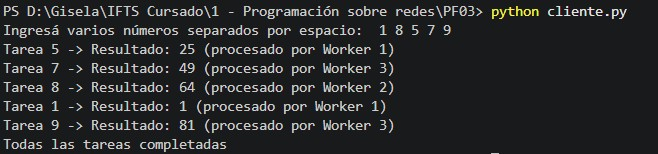
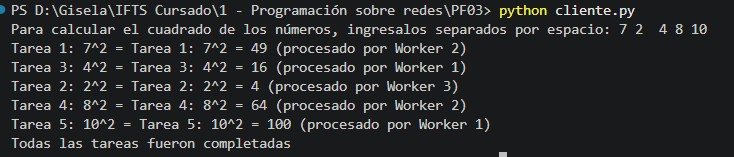
Mejora la salida: numera las tareas, muestra la operación (N^2 = resultado) y cierre prolijo del cliente con Ctrl+C

diff --git a/servidor.py b/servidor.py
@@ -12,20 +12,22 @@ cola = queue.Queue()
 # --- Worker: saca tareas de la cola y las procesa ---
 def worker(nombre):
     while True:
-        conexion, direccion, tarea = cola.get()
-        print(f"[{nombre}] procesando tarea: {tarea}")
-        time.sleep(2)                                  
+        conexion, direccion, tarea = cola.get()                          
 
         try:
-            numero = int(tarea)
-            resultado = numero * numero                
-            respuesta = f"Resultado: {resultado} (procesado por {nombre})"
+            num_tarea, valor = tarea.split(":")        # separa "1:5" en num_tarea="1", valor="5"
+            numero = int(valor)
+            print(f"[{nombre}] procesando Tarea {num_tarea}: {numero}^2")
+            time.sleep(2)                              # simula trabajo pesado
+            resultado = numero * numero
+            respuesta = f"Tarea {num_tarea}: {numero}^2 = {resultado} (procesado por {nombre})"
+            print(f"[{nombre}] terminó Tarea {num_tarea}: {numero}^2 = {resultado}")
         except ValueError:
             respuesta = "Error: enviá un número válido"
+            print(f"[{nombre}] tarea inválida: {tarea}")
 
         conexion.send(respuesta.encode())              
         conexion.close()                               
-        print(f"[{nombre}] terminó tarea: {tarea}")
         cola.task_done()
 
 
@@ -52,7 +54,7 @@ def main():
 
                 tarea = conexion.recv(1024).decode()
                 cola.put((conexion, direccion, tarea))
-                print(f"[Servidor] tarea de {direccion[1]} encolada: {tarea}")
+                print(f"[Servidor] {tarea} encolada")
         except KeyboardInterrupt:
             print("Servidor detenido.")
 

diff --git a/cliente.py b/cliente.py
@@ -4,25 +4,28 @@ import threading
 HOST = "localhost"
 PORT = 5000
 
-def enviar_tarea(numero):
+def enviar_tarea(num_tarea, numero):
     s = socket.socket(socket.AF_INET, socket.SOCK_STREAM)
     s.connect((HOST, PORT))
-    s.send(str(numero).encode())
-    resultado = s.recv(1024).decode()        
-    print(f"Tarea {numero} -> {resultado}")
+    s.send(f"{num_tarea}:{numero}".encode())
+    resultado = s.recv(1024).decode()
+    print(f"Tarea {num_tarea}: {numero}^2 = {resultado}")
     s.close()
 
 if __name__ == "__main__":
-    entrada = input("Para calcular el cuadrado de los números, ingresalos separados por espacio: ")
-    numeros = entrada.split()                
+    try:
+        entrada = input("Para calcular el cuadrado de los números, ingresalos separados por espacio: ")
+        numeros = entrada.split()                
 
-    hilos = []
-    for n in numeros:
-        t = threading.Thread(target=enviar_tarea, args=(n,))
-        t.start()                            
-        hilos.append(t)
+        hilos = []
+        for i, n in enumerate(numeros, start=1):
+            t = threading.Thread(target=enviar_tarea, args=(i, n))
+            t.start()                            
+            hilos.append(t)
 
-    for t in hilos:
-        t.join()                             
+        for t in hilos:
+            t.join()                             
 
-    print("Todas las tareas fueron completadas")
+        print("Todas las tareas fueron completadas")
+    except KeyboardInterrupt:
+        print("\nCliente detenido.")
